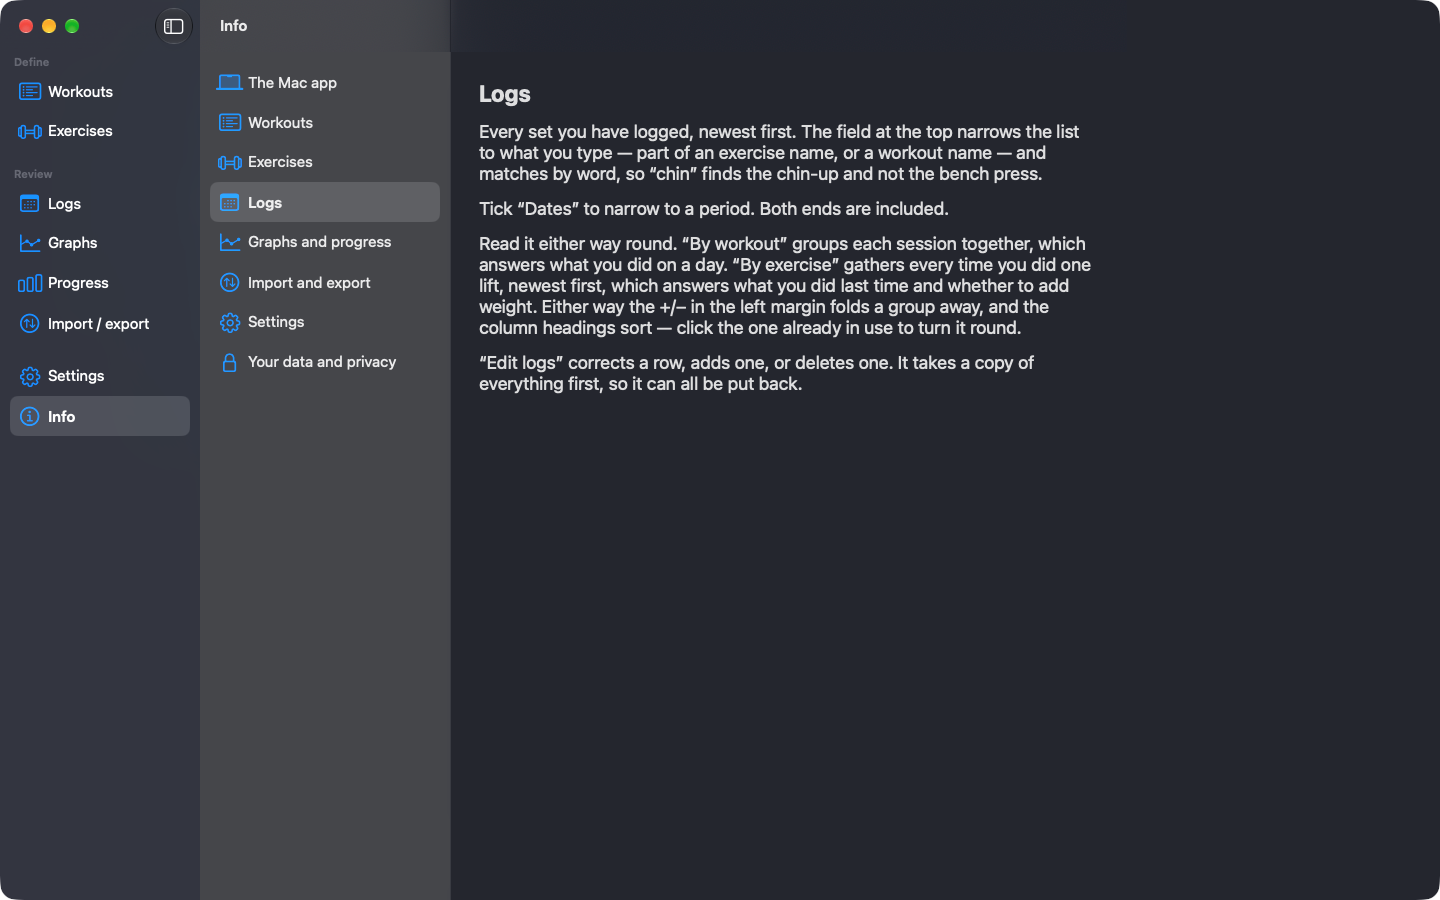
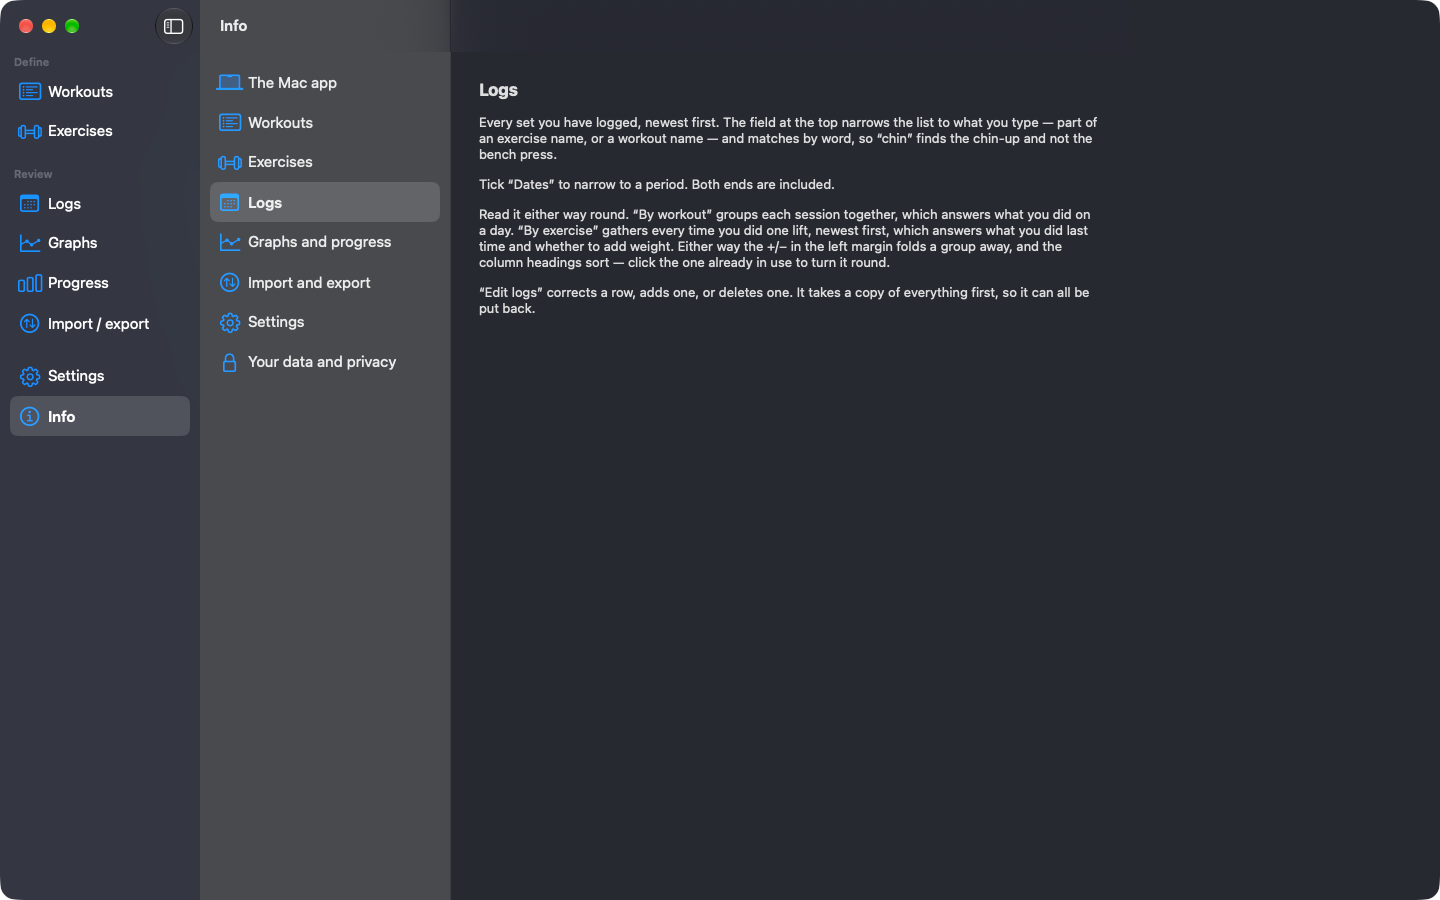
Shoot the Mac screenshots in the dark, and stop writing names down twice
A run that should have made eight pictures made two, and the two were light
where the set on the store is dark. Two faults, both of them mine from the
rename.

The bundle identifier was written out in this script as well as in the build
settings, so when the Mac target took the iPhone's identifier the copy here
went stale. The quit between screens then matched nothing — and says nothing,
because osascript has no complaint about an app id that is not running — so
every screen launched another instance on top of the last instead of
replacing it, and the run fell apart after the third. The identifier and the
process name are now asked of the built app, which cannot drift from it.

The appearance was never anyone's to choose: the app follows the Mac it runs
on, the Mac had been switched to light since the first set was shot, and
neither the app nor the script had an opinion. So the run states it.
-SRWAppearance dark|light sets NSApp.appearance, defaulting to dark to match
what is already uploaded, with APPEARANCE=light for the other set.

Verified by running it: eight captures at 1440x900, mean brightness 0.20-0.23
against 0.22-0.25 for the set in git, taken on a Mac that is in light mode —
and the same screen shot with APPEARANCE=light comes out at 0.98. Mac tests
26/26.

Changed region(s): [[0.3125, 0.0933, 0.75, 0.4356], [0.0312, 0.0, 0.0625, 0.0311]]

diff --git a/workout_aicode_MacOSTests/MacAppearanceTests.swift b/workout_aicode_MacOSTests/MacAppearanceTests.swift
@@ -83,3 +83,45 @@ struct MacTextSizeTests {
         #expect(MacTextSize.current == .default)
     }
 }
+
+// MARK: - The appearance a screenshot run is shot in
+//
+// Reported from a real run: eight dark captures were already on the store,
+// the script was run again and produced two light ones. The appearance was
+// never the script's to choose — the app followed the Mac, and the Mac had
+// been switched since. Nothing in either of them said so.
+
+@Suite
+struct ScreenshotAppearanceTests {
+
+    @Test func theRunSaysWhichAppearanceToShootIn() {
+        #expect(ScreenshotMode.appearanceName(in: ["app", "-SRWAppearance", "dark"]) == .darkAqua)
+        #expect(ScreenshotMode.appearanceName(in: ["app", "-SRWAppearance", "light"]) == .aqua)
+    }
+
+    /// Without the flag the app is left alone, which is what every ordinary
+    /// launch wants.
+    @Test func withoutTheFlagTheAppFollowsTheMac() {
+        #expect(ScreenshotMode.appearanceName(in: ["app"]) == nil)
+        #expect(ScreenshotMode.appearanceName(in: ["app", "-SRWShot", "1440x900"]) == nil)
+    }
+
+    /// A typo must not quietly shoot the other set.
+    @Test func anUnknownAppearanceIsNotAGuess() {
+        #expect(ScreenshotMode.appearanceName(in: ["app", "-SRWAppearance", "midnight"]) == nil)
+        #expect(ScreenshotMode.appearanceName(in: ["app", "-SRWAppearance", ""]) == nil)
+    }
+
+    /// The flag last, with nothing after it. Every -SRW flag has to be given a
+    /// value — NSUserDefaults reads the launch arguments as pairs, so a bare
+    /// one swallows whatever follows — and reading past the end would crash.
+    @Test func theFlagWithNothingAfterItIsIgnored() {
+        #expect(ScreenshotMode.appearanceName(in: ["app", "-SRWAppearance"]) == nil)
+    }
+
+    /// Case is the shell's business, not something to be strict about.
+    @Test func theValueIsNotCaseSensitive() {
+        #expect(ScreenshotMode.appearanceName(in: ["app", "-SRWAppearance", "Dark"]) == .darkAqua)
+        #expect(ScreenshotMode.appearanceName(in: ["app", "-SRWAppearance", "LIGHT"]) == .aqua)
+    }
+}

diff --git a/workout_aicode_MacOS/MacAppearance.swift b/workout_aicode_MacOS/MacAppearance.swift
@@ -197,6 +197,29 @@ extension View {
 /// says the window exists AND has been resized, where the id file only ever
 /// said the app had got as far as writing a file.
 enum ScreenshotMode {
+    /// `-SRWAppearance dark` or `-SRWAppearance light`, nil to follow the Mac.
+    ///
+    /// The app has no appearance setting of its own — it takes the one the Mac
+    /// is set to, which is right for an app and wrong for a screenshot run.
+    /// The set on the store was shot on a dark Mac; a later run on a light one
+    /// produced light pictures that could not sit beside them, and nothing in
+    /// the script said which it would be. So the run says, rather than the
+    /// morning deciding.
+    ///
+    /// An unrecognised value is nil rather than a guess: a typo should leave
+    /// the app alone, not silently shoot the wrong set.
+    static func appearanceName(in args: [String] = CommandLine.arguments)
+        -> NSAppearance.Name? {
+        guard let i = args.firstIndex(of: "-SRWAppearance"), i + 1 < args.count else {
+            return nil
+        }
+        switch args[i + 1].lowercased() {
+        case "dark":  return .darkAqua
+        case "light": return .aqua
+        default:      return nil
+        }
+    }
+
     /// `-SRWShot <width>x<height>`
     static var size: CGSize? {
         let args = CommandLine.arguments
@@ -234,6 +257,12 @@ enum ScreenshotMode {
     /// for `view.window`, which never arrived on a seeded store. AppKit knows
     /// what windows the app has however SwiftUI arrived at them.
     static func beginIfAsked() {
+        if let name = appearanceName() {
+            // Asked for on the next pass, not here: this runs from App.init,
+            // where NSApp may not exist yet, and an appearance set on nothing
+            // is an appearance nobody sees.
+            DispatchQueue.main.async { NSApp?.appearance = NSAppearance(named: name) }
+        }
         guard let size else { return }
         var elapsed = 0.0
         var settled = 0
